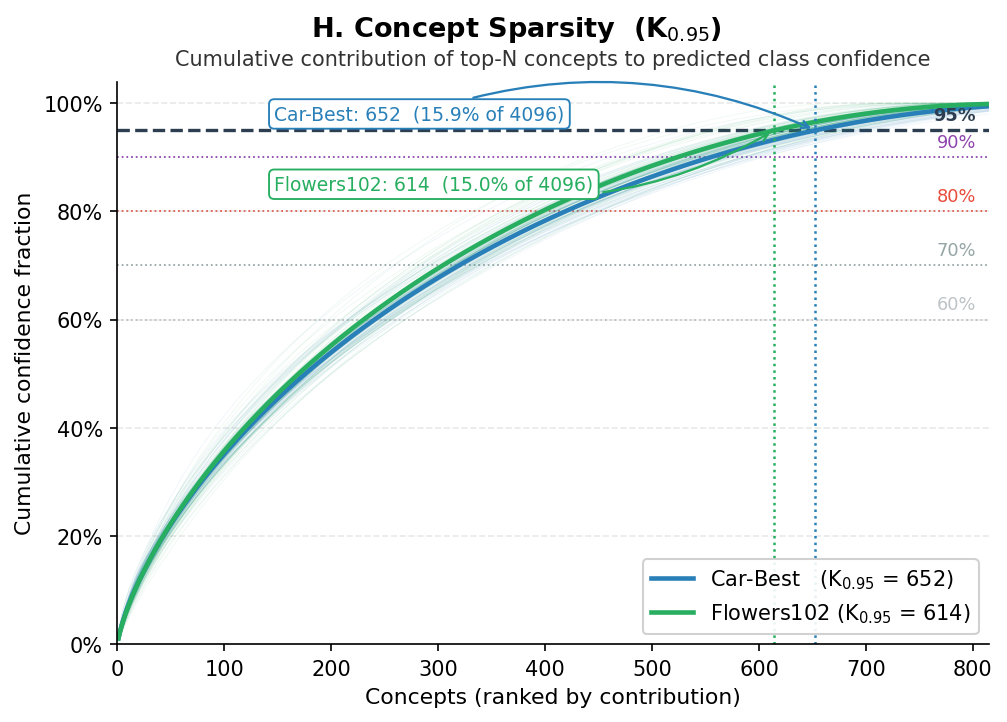
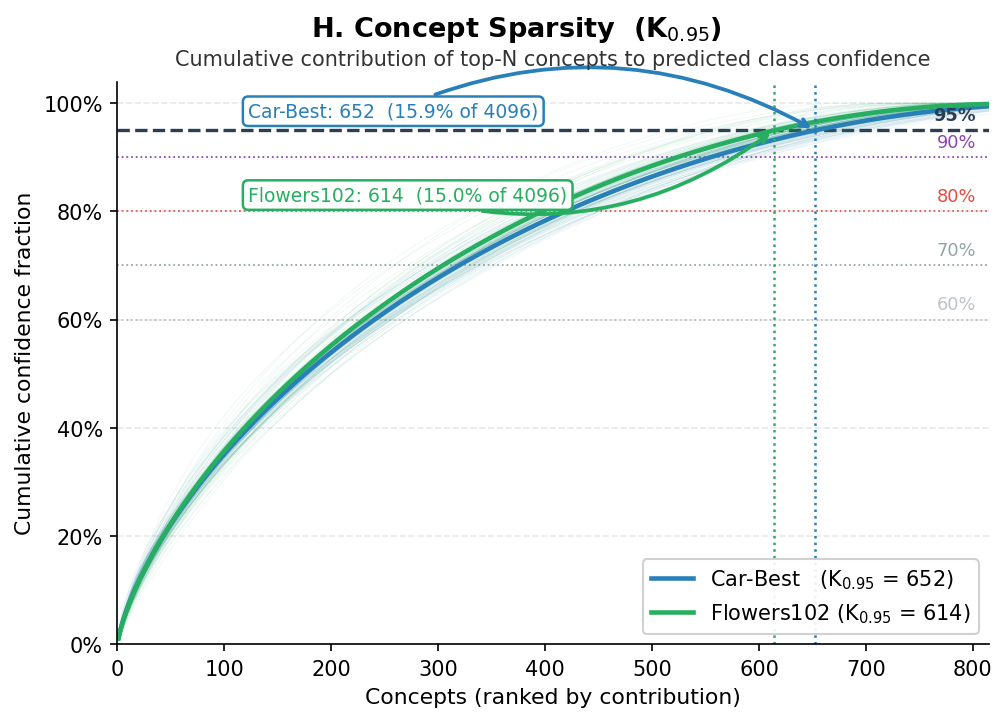
figures: make both arrows visible in Fig H

diff --git a/paper_scripts/gen_fig_H_sparsity.py b/paper_scripts/gen_fig_H_sparsity.py
@@ -249,19 +249,19 @@ if __name__ == '__main__':
     ax.axvline(car_k08, color=CAR_COLOR, linewidth=1.2, linestyle=':')
     ax.axvline(fl_k08,  color=FLW_COLOR, linewidth=1.2, linestyle=':')
 
-    # Annotations — placed in the open left region, arrows pointing to 95% intercepts
+    # Annotations — text on left, arrows pointing to 95% intercepts on each curve
     ax.annotate(f'Car-Best: {car_k08:.0f}  ({car_k08/K_TOTAL*100:.1f}% of {K_TOTAL})',
-                xy=(car_k08, 0.95), xytext=(x_end * 0.18, 0.97),
+                xy=(car_k08, 0.95), xytext=(x_end * 0.15, 0.975),
                 fontsize=9, color=CAR_COLOR,
-                arrowprops=dict(arrowstyle='->', color=CAR_COLOR, lw=1.1,
-                                connectionstyle='arc3,rad=-0.2'),
-                bbox=dict(boxstyle='round,pad=0.28', fc='white', ec=CAR_COLOR, lw=0.9))
+                arrowprops=dict(arrowstyle='->', color=CAR_COLOR, lw=1.8,
+                                connectionstyle='arc3,rad=-0.25'),
+                bbox=dict(boxstyle='round,pad=0.28', fc='white', ec=CAR_COLOR, lw=1.2))
     ax.annotate(f'Flowers102: {fl_k08:.0f}  ({fl_k08/K_TOTAL*100:.1f}% of {K_TOTAL})',
-                xy=(fl_k08, 0.95), xytext=(x_end * 0.18, 0.84),
+                xy=(fl_k08, 0.95), xytext=(x_end * 0.15, 0.82),
                 fontsize=9, color=FLW_COLOR,
-                arrowprops=dict(arrowstyle='->', color=FLW_COLOR, lw=1.1,
-                                connectionstyle='arc3,rad=0.2'),
-                bbox=dict(boxstyle='round,pad=0.28', fc='white', ec=FLW_COLOR, lw=0.9))
+                arrowprops=dict(arrowstyle='->', color=FLW_COLOR, lw=1.8,
+                                connectionstyle='arc3,rad=0.25'),
+                bbox=dict(boxstyle='round,pad=0.28', fc='white', ec=FLW_COLOR, lw=1.2))
 
     ax.set_xlabel('Concepts (ranked by contribution)', fontsize=10.5)
     ax.set_ylabel('Cumulative confidence fraction', fontsize=10.5)
